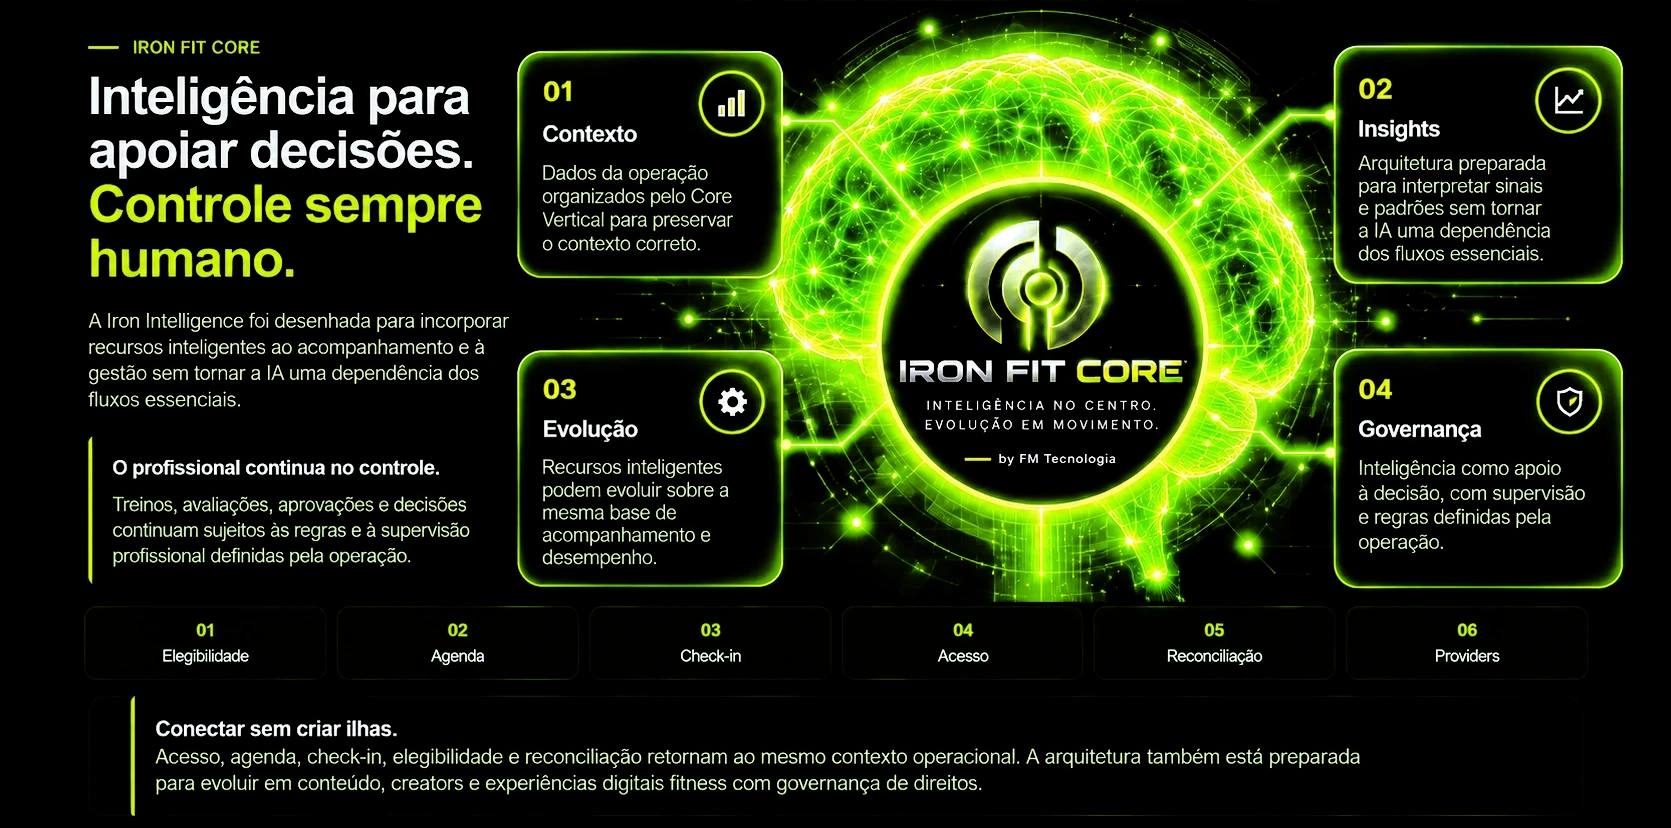
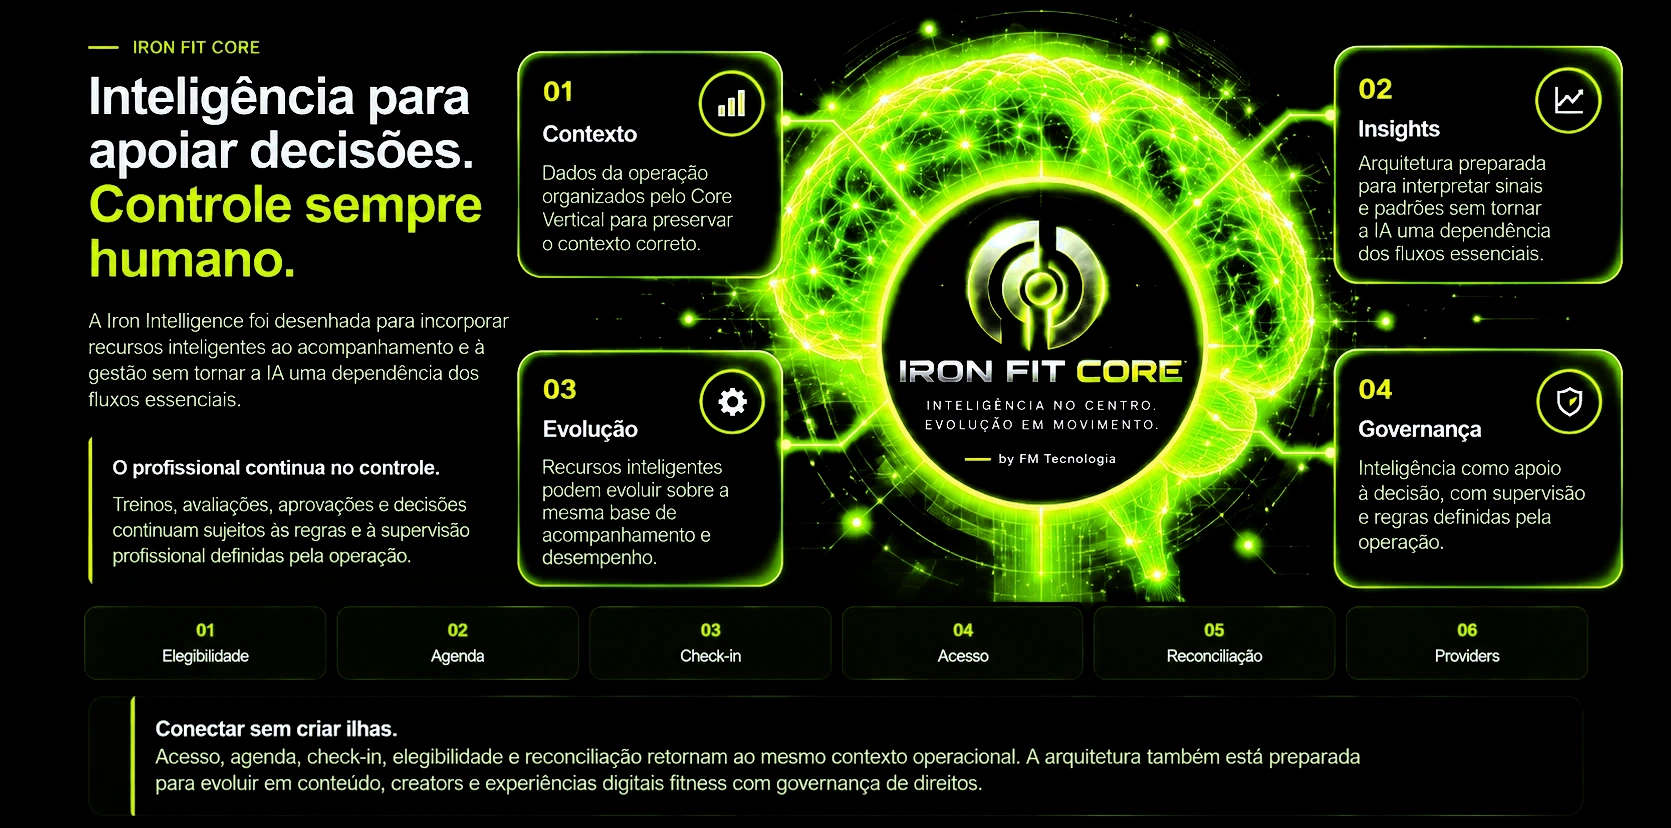
fix: imagem de inteligência do Iron Fit com fundo escuro e destaque só nos cards, círculo e cérebro
Claude-Session: https://claude.ai/code/session_016hLEbGuF1vd41SJQmjZXeJ

diff --git a/assets/site.css b/assets/site.css
@@ -151,7 +151,7 @@ h3{font-size:20px;letter-spacing:-.02em;font-weight:600;line-height:1.25}
 .cgrid .cc{padding:26px;display:flex;flex-direction:column;gap:8px}.cgrid .cc h3{margin:2px 0 10px;font-size:18px;color:var(--mu);font-weight:500}.cl{font-size:11px;letter-spacing:.14em;text-transform:uppercase;font-weight:700;color:var(--dim)}.cl.ok{color:var(--a);margin-top:auto}.cgrid .cc p{margin:0;color:var(--tx);font-size:15.5px}
 .c5{grid-template-columns:repeat(6,1fr)}.c5>*{grid-column:span 2}.c5>*:nth-child(n+4){grid-column:span 3}
 h3.gh{margin-top:44px;font:700 12px var(--fb);letter-spacing:.16em;text-transform:uppercase;color:var(--a)}.card.sm{padding:22px}.card.sm h3{font-size:17px;margin:14px 0 6px}.card.sm p{font-size:14.5px}
-.dg{margin:40px 0 0;border-radius:20px;overflow:hidden;border:1px solid var(--ln);background:var(--s1)}.dg img{width:100%;height:auto;display:block}
+.dg{margin:40px 0 0;border-radius:20px;overflow:hidden;border:1px solid var(--ln);background:#000}.dg img{width:100%;height:auto;display:block}
 
 /* logo aprovada (azul, como no site atual) */
 .brand .wm{display:flex;flex-direction:column;gap:5px;align-items:flex-start}
